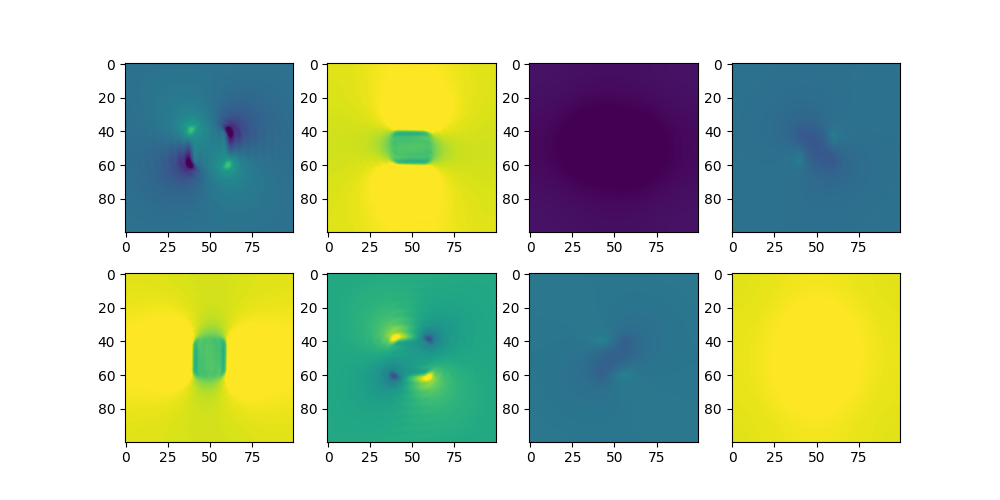
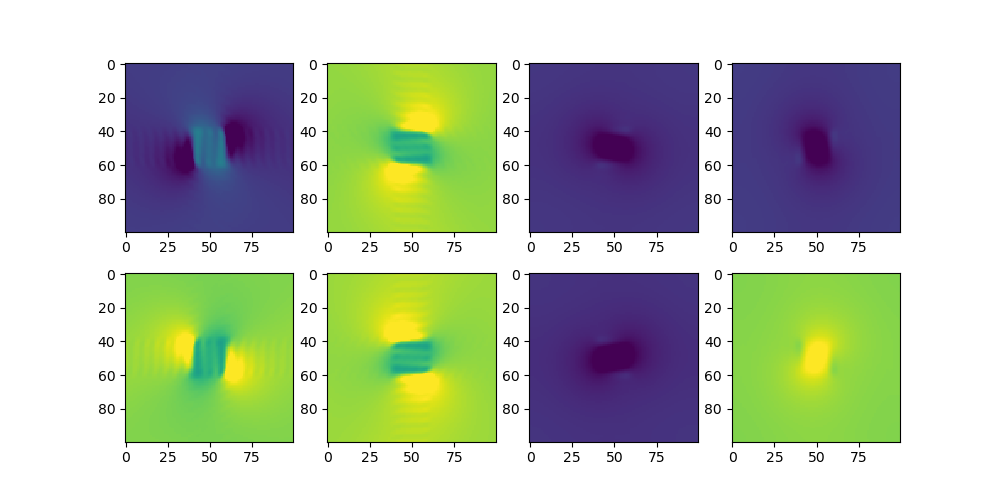
_

diff --git a/test_smat.py b/test_smat.py
@@ -13,8 +13,8 @@ if device == "cuda":
 else:
     print("Using CPU")
 
-nx = 20 # half of the harmonics along x and y directions
-ny = 20
+nx = 16 # half of the harmonics along x and y directions
+ny = 16
 nx_grid = 100 # grid number along x direction, we use analytical Fourier transform, so nx_grid can be very small
 n_opt = 20 # number of optimization grid along one direction
 wavelength = 1.55
